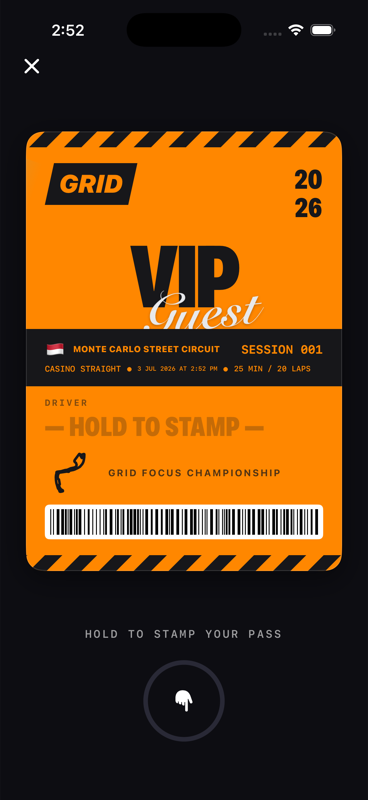
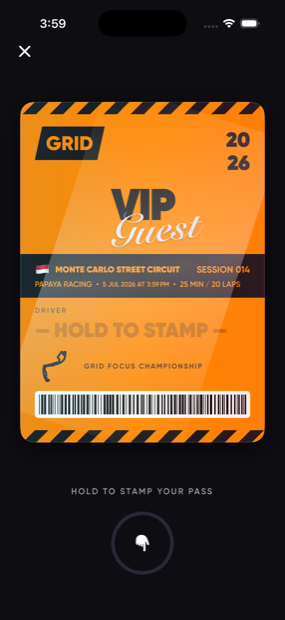
Refresh README screenshots from current build
Capture circuit-select, paddock pass, racing, paywall, and Pro pass
from the iOS 17 Pro simulator; add a Go Pro / membership-pass gallery row.

diff --git a/README.md b/README.md
@@ -35,6 +35,10 @@ Live Activity in the Dynamic Island. Leave early and your pass is stamped
 | :---: | :---: | :---: |
 | ![Circuit select](docs/screenshot-circuit-select.png) | ![Paddock pass](docs/screenshot-paddock-pass.png) | ![Racing](docs/screenshot-racing.png) |
 
+| Go Pro | Membership pass |
+| :---: | :---: |
+| ![Go Pro](docs/screenshot-paywall.png) | ![Pro pass](docs/screenshot-propass.png) |
+
 </div>
 
 ## How it works